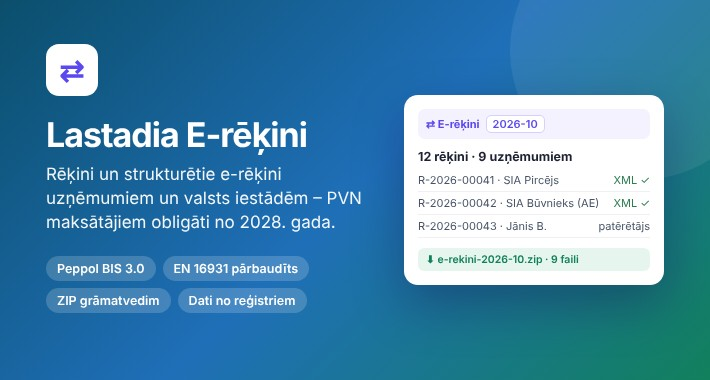
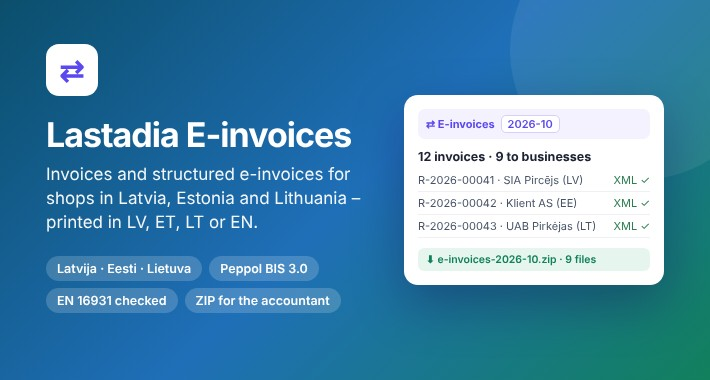
Lastadia E-invoices for Latvia, Estonia and Lithuania: page, guide, listing text, screenshots
Claude-Session: https://claude.ai/code/session_01BDzH6KM6mpwT9xKqHFzTSu

diff --git a/lv-einvoice.html b/lv-einvoice.html
@@ -1,6 +1,6 @@
 <!doctype html>
 <html lang="lv"><head><meta charset="utf-8"><meta name="viewport" content="width=device-width, initial-scale=1">
-<title>Lastadia E-rēķini – strukturētie e-rēķini - OpenCart extension</title><meta name="description" content="Rēķini un strukturētie e-rēķini (Peppol BIS Billing 3.0 / EN 16931) Latvijas OpenCart veikaliem, pārbaudīti ar oficiālajiem CEN un Peppol noteikumiem."><style>:root{--bg:#f6f7f9;--card:#fff;--ink:#17202a;--mut:#5b6773;--line:#e2e7ec;--acc:#12805c;--acc2:#1f6fb8;--chip:#eef2f5}
+<title>Lastadia E-invoices – Latvia, Estonia, Lithuania - OpenCart extension</title><meta name="description" content="Rēķini un strukturētie e-rēķini (Peppol BIS Billing 3.0 / EN 16931) OpenCart veikaliem Latvijā, Igaunijā un Lietuvā – izdruka latviešu, igauņu, lietuviešu vai angļu valodā."><style>:root{--bg:#f6f7f9;--card:#fff;--ink:#17202a;--mut:#5b6773;--line:#e2e7ec;--acc:#12805c;--acc2:#1f6fb8;--chip:#eef2f5}
 @media (prefers-color-scheme:dark){:root{--bg:#0f1418;--card:#171e24;--ink:#e8edf1;--mut:#9aa7b2;--line:#26313a;--acc:#2fb487;--acc2:#5aa5e6;--chip:#1f2830}}
 *{box-sizing:border-box}body{margin:0;background:var(--bg);color:var(--ink);font:16px/1.55 -apple-system,BlinkMacSystemFont,"Segoe UI",Roboto,Helvetica,Arial,sans-serif}
 a{color:var(--acc2)}.wrap{max-width:1000px;margin:0 auto;padding:0 16px}
@@ -19,12 +19,16 @@ ol.s{margin:0;padding-left:22px}ol.s li{margin:6px 0}
 footer{margin:44px 0 0;padding:22px 0 40px;border-top:1px solid var(--line);color:var(--mut);font-size:14px}</style></head>
 <body><div class="wrap">
 <nav><a href="./">&larr; Visi paplašinājumi</a></nav>
-<header><h1>Lastadia E-rēķini</h1><p>Rēķini un strukturētie e-rēķini (Peppol BIS Billing 3.0 / EN 16931) Latvijas OpenCart veikaliem – arī tad, ja grāmatvedību kārto grāmatvedis savā programmā. Valsts un pašvaldību iestādēm obligāti jau tagad, PVN maksātājiem savā starpā – no 2028. gada 1. janvāra.</p>
+<header><h1>Lastadia E-invoices</h1><p>E-rēķini (Latvija), e-arved (Eesti), e. sąskaitos (Lietuva): rēķini un strukturētie e-rēķini (Peppol BIS Billing 3.0 / EN 16931) OpenCart veikaliem – arī tad, ja grāmatvedību kārto grāmatvedis savā programmā.</p>
 <div class="buy"><span class="price">$59</span><a class="btn main" href="https://www.opencart.com/index.php?route=marketplace/extension/info&amp;extension_id=50285">Pirkt OpenCart Marketplace</a><a class="btn" href="docs/LV_EINVOICE_GUIDE.md">Lietošanas pamācība</a></div>
-<div class="chips"><span>OpenCart 3 + 4 vienā pirkumā</span><span>Netiek mainīti OpenCart faili</span><span>12 mēnešu atjauninājumi un atbalsts</span></div></header>
+<div class="chips"><span>Latvija · Eesti · Lietuva</span><span>OpenCart 3 + 4 vienā pirkumā</span><span>Netiek mainīti OpenCart faili</span><span>12 mēnešu atjauninājumi un atbalsts</span></div></header>
 
-<h2>Ko tas dara</h2><div class="card"><ul class="f"><li>Rēķini un kredītrēķini ar nepārtrauktu numerāciju, izdruka un PDF, nosūtīšana pircējam pa e-pastu</li><li>Rēķins pasūtījumam ar pircēja uzņēmuma rekvizītiem; pēc izvēles automātiski katram apmaksātam pasūtījumam</li><li>Rēķins bez pasūtījuma (pakalpojumi, B2B) ar rindām, mērvienībām un PVN likmēm; PVN 0 % iemesls: apgrieztā maksāšana, ES preces, eksports, atbrīvots</li><li>Katram rēķinam uzņēmumam – XML fails Peppol BIS Billing 3.0 / EN 16931 (UBL 2.1), pārbaudīts ar oficiālajiem CEN un Peppol noteikumiem</li><li>E-rēķini par periodu vienā ZIP failā ar sarakstu – grāmatvedim vai e-rēķinu pakalpojumam</li><li>Uzņēmuma dati no Uzņēmumu reģistra, VID PVN maksātāju reģistra un VIES</li><li>Izrakstītu rēķinu nevar mainīt vai dzēst – kļūdu labo ar kredītrēķinu; izmaiņu vēsture un piekļuve katram administratoram</li><li>Failu nosūtiet caur valsts e-adresi vai e-rēķinu pakalpojumu – modulis pats nesūta</li><li>Vajag arī grāmatvedību? E-rēķini jau ir iekļauti <a href="lv-books.html">Lastadia Grāmatvedība</a> un <a href="lv-journal.html">Lastadia Žurnāls</a></li></ul></div>
+<h2>Kāpēc tagad</h2><div class="card"><ul class="f"><li><b>Latvija:</b> valsts un pašvaldību iestādēm obligāti jau tagad; PVN maksātājiem savā starpā – no 2028. gada 1. janvāra</li><li><b>Igaunija:</b> valsts iestādēm – kopš 2019. gada; kopš 2025. gada 1. jūlija e-rēķinu saņēmējs var tos pieprasīt no piegādātāja</li><li><b>Lietuva:</b> valsts iestādēm – caur eSąskaita; PVN maksātājiem savā starpā plānoti no 2028. gada</li></ul></div>
 
-<h2>Ekrānuzņēmumi</h2><div class="shots"><figure><img src="assets/lv_einvoice_1.jpg" alt="Pārskats: e-rēķini šomēnes un ZIP par periodu" loading="lazy"><figcaption>Pārskats: e-rēķini šomēnes un ZIP par periodu</figcaption></figure><figure><img src="assets/lv_einvoice_2.jpg" alt="Rēķini ar e-rēķina XML pogu" loading="lazy"><figcaption>Rēķini ar e-rēķina XML pogu</figcaption></figure><figure><img src="assets/lv_einvoice_3.jpg" alt="Jauns rēķins ar PVN 0 % iemeslu" loading="lazy"><figcaption>Jauns rēķins ar PVN 0 % iemeslu</figcaption></figure><figure><img src="assets/lv_einvoice_4.jpg" alt="Iestatījumi" loading="lazy"><figcaption>Iestatījumi</figcaption></figure><figure><img src="assets/lv_einvoice_5.jpg" alt="E-rēķina XML: 0 kļūdu (CEN EN 16931, Peppol)" loading="lazy"><figcaption>E-rēķina XML: 0 kļūdu (CEN EN 16931, Peppol)</figcaption></figure></div>
+<h2>Ko tas dara</h2><div class="card"><ul class="f"><li>Rēķini un kredītrēķini ar nepārtrauktu numerāciju, izdruka un PDF, nosūtīšana pircējam pa e-pastu</li><li>Izdruka latviešu, igauņu, lietuviešu vai angļu valodā ar katras valsts rekvizītiem (Rēķins / Arve / PVM sąskaita faktūra)</li><li>Rēķins pasūtījumam – automātiski katram apmaksātam pasūtījumam vai ar pogu; rēķins bez pasūtījuma (pakalpojumi, B2B)</li><li>PVN likmes pēc valsts; PVN 0 % iemesls (apgrieztā maksāšana, ES piegāde, eksports, atbrīvots) tiek drukāts uz rēķina</li><li>Katram rēķinam uzņēmumam – XML fails Peppol BIS Billing 3.0 / EN 16931; e-rēķina adrese – uzņēmuma kods (LV 0218, EE 0191, LT 0200), pārbaudīts ar oficiālajiem CEN un Peppol noteikumiem</li><li>E-rēķini par periodu vienā ZIP failā ar sarakstu – grāmatvedim vai e-rēķinu operatoram</li><li>Saskarne latviešu, angļu, krievu, igauņu vai lietuviešu valodā</li><li>Failu nosūtiet caur e-rēķinu operatoru vai valsts pakalpojumu – modulis pats nesūta</li><li>Vajag arī grāmatvedību Latvijā? E-rēķini jau ir iekļauti <a href="lv-books.html">Lastadia Grāmatvedība</a> un <a href="lv-journal.html">Lastadia Žurnāls</a></li></ul></div>
+
+<h2>English · Eesti · Lietuvių</h2><div class="card"><p style="margin-top:0">Invoices and Peppol / EN 16931 e-invoices for OpenCart shops in Latvia, Estonia and Lithuania, printed in Latvian, Estonian, Lithuanian or English, checked against the official CEN and Peppol rules.</p><p>Arved ja e-arved (Peppol / EN 16931) OpenCarti poodidele Eestis, Lätis ja Leedus – eesti, läti, leedu või inglise keeles.</p><p style="margin-bottom:0">Sąskaitos faktūros ir e. sąskaitos (Peppol / EN 16931) OpenCart parduotuvėms Lietuvoje, Latvijoje ir Estijoje – lietuvių, latvių, estų arba anglų kalba.</p></div>
+
+<h2>Ekrānuzņēmumi</h2><div class="shots"><figure><img src="assets/lv_einvoice_1.jpg" alt="Igaunijas veikals: pārskats igauņu valodā" loading="lazy"><figcaption>Igaunijas veikals: pārskats igauņu valodā</figcaption></figure><figure><img src="assets/lv_einvoice_2.jpg" alt="Lietuvas uzņēmums: valsts, kods un rēķinu valoda" loading="lazy"><figcaption>Lietuvas uzņēmums: valsts, kods un rēķinu valoda</figcaption></figure><figure><img src="assets/lv_einvoice_3.jpg" alt="Rēķini ar e-rēķina XML pogu" loading="lazy"><figcaption>Rēķini ar e-rēķina XML pogu</figcaption></figure><figure><img src="assets/lv_einvoice_4.jpg" alt="Rēķins igauņu valodā (Arve)" loading="lazy"><figcaption>Rēķins igauņu valodā (Arve)</figcaption></figure></div>
 <footer><p>Jautājumi: <a href="https://github.com/val218/opencart-extensions/issues">atveriet issue</a>. OpenCart ir OpenCart Limited preču zīme; šie paplašinājumi ir neatkarīgi.</p></footer>
 </div></body></html>

diff --git a/index.html b/index.html
@@ -119,8 +119,8 @@ footer{margin:48px 0 0;padding:24px 0 40px;border-top:1px solid var(--line);colo
 <h3><a href="lv-books.html" style="color:inherit;text-decoration:none">Lastadia Grāmatvedība – SIA un mikrosabiedrībām</a></h3><p>SIA un mikrosabiedrībām – PVN maksātājiem un PVN nemaksātājiem: divkāršais ieraksts, PVN deklarācija un OSS, algas, krājumi, dividendes, UIN un gada pārskats (XML VID EDS).</p><div class="price">$129</div>
 <div class="links"><a class="btn main" href="https://www.opencart.com/index.php?route=marketplace/extension/info&amp;extension_id=50284">OpenCart Marketplace</a><a class="btn" href="lv-books.html">Screenshots</a><a class="btn" href="docs/LV_BOOKS_GUIDE.md">Guide</a></div></div></div>
 
-<div class="card"><img src="assets/lv_einvoice_banner.png" alt="Lastadia E-rēķini banner" loading="lazy"><div class="b">
-<h3><a href="lv-einvoice.html" style="color:inherit;text-decoration:none">Lastadia E-rēķini</a></h3><p>Rēķini un strukturētie e-rēķini (Peppol BIS Billing 3.0 / EN 16931) uzņēmumiem un valsts iestādēm, pārbaudīti ar oficiālajiem CEN un Peppol noteikumiem; ZIP par periodu grāmatvedim.</p><div class="price">$59</div>
+<div class="card"><img src="assets/lv_einvoice_banner.png" alt="Lastadia E-invoices banner" loading="lazy"><div class="b">
+<h3><a href="lv-einvoice.html" style="color:inherit;text-decoration:none">Lastadia E-invoices</a></h3><p>E-rēķini, e-arved, e. sąskaitos: rēķini un strukturētie e-rēķini (Peppol BIS Billing 3.0 / EN 16931) veikaliem Latvijā, Igaunijā un Lietuvā; izdruka LV, ET, LT vai EN valodā.</p><div class="price">$59</div>
 <div class="links"><a class="btn main" href="https://www.opencart.com/index.php?route=marketplace/extension/info&amp;extension_id=50285">OpenCart Marketplace</a><a class="btn" href="lv-einvoice.html">Screenshots</a><a class="btn" href="docs/LV_EINVOICE_GUIDE.md">Guide</a></div></div></div>
 </div>
 

diff --git a/docs/LV_EINVOICE_GUIDE.md b/docs/LV_EINVOICE_GUIDE.md
@@ -1,31 +1,51 @@
-# Lastadia E-rēķini - lietošanas instrukcija (v1.0.1)
+# Lastadia E-invoices (E-rēķini, E-arved, E-sąskaitos) - lietošanas instrukcija (v1.1.0)
 
-Strukturētie e-rēķini Latvijas OpenCart veikalam: rēķini un kredītrēķini ar nepārtrauktu numerāciju un e-rēķina XML fails (Peppol BIS Billing 3.0 / EN 16931, UBL 2.1) katram rēķinam uzņēmumam. Bez grāmatvedības - grāmatvedību var kārtot jūsu grāmatvedis savā programmā (Jumis, Horizon u. c.).
+Strukturētie e-rēķini OpenCart veikalam Latvijā, Igaunijā vai Lietuvā: rēķini un kredītrēķini ar nepārtrauktu numerāciju un e-rēķina XML fails (Peppol BIS Billing 3.0 / EN 16931, UBL 2.1) katram rēķinam uzņēmumam. Bez grāmatvedības - grāmatvedību var kārtot jūsu grāmatvedis savā programmā.
+
+*English summary below. Eestikeelne ja lietuviškas santrauka - žemiau.*
 
 ## Kāpēc
-- Valsts un pašvaldību iestādēm e-rēķini ir obligāti jau tagad.
-- PVN maksātājiem savā starpā Latvijā - no 2028. gada 1. janvāra; brīvprātīgi - jau tagad.
+- **Latvija:** valsts un pašvaldību iestādēm e-rēķini ir obligāti jau tagad; PVN maksātājiem savā starpā - no 2028. gada 1. janvāra.
+- **Igaunija:** valsts iestādēm - kopš 2019. gada; kopš 2025. gada 1. jūlija uzņēmums, kas reģistrēts kā e-rēķinu saņēmējs, var tos pieprasīt no piegādātāja. Vispārēja prasība no 2027. gada ir ierosināta, bet vēl nav pieņemta.
+- **Lietuva:** valsts iestādēm - caur eSąskaita (kopš 2017. gada); PVN maksātājiem savā starpā plānoti no 2028. gada.
 - Patērētājiem e-rēķins nav vajadzīgs.
 
 ## Uzstādīšana
-1. OpenCart 3: Extensions → Installer → `lv_einvoice_oc3.ocmod.zip`; Extensions → Modules → "Lastadia E-rēķini" → Install. OpenCart 4: Extensions → Installer → `lv_einvoice.ocmod.zip` → Install, tad Extensions → Modules → Install.
-2. Izvēlne: Sales → E-rēķini.
-3. Cilnē **Uzņēmums** ievadiet reģistrācijas numuru - nosaukums, adrese un PVN statuss tiek atrasti reģistros. E-rēķinam vajag reģistrācijas numuru (11 cipari) vai PVN numuru.
-4. Iestatījumos - konts (IBAN), rēķinu sērijas, apmaksas termiņš; vajadzības gadījumā - automātiski rēķini katram apmaksātam pasūtījumam.
+1. OpenCart 3: Extensions → Installer → `lv_einvoice_oc3.ocmod.zip`; Extensions → Modules → "Lastadia E-invoices" → Install. OpenCart 4: Extensions → Installer → `lv_einvoice.ocmod.zip` → Install, tad Extensions → Modules → Install.
+2. Izvēlne: Sales → Lastadia E-invoices.
+3. Cilnē **Uzņēmums** izvēlieties valsti (Latvija, Igaunija, Lietuva) un aizpildiet uzņēmuma datus:
+   - Latvija: ievadiet reģistrācijas numuru - nosaukums, adrese un PVN statuss tiek atrasti Uzņēmumu reģistrā un VID datos.
+   - Igaunija un Lietuva: PVN maksātāji var atrast datus pēc PVN numura (ES VIES); citādi ievadiet paši.
+   - Reģistrācijas numurs ir e-rēķina adrese: Latvijā 11 cipari (Peppol 0218), Igaunijā 8 (registrikood, 0191), Lietuvā 9 (įmonės kodas, 0200).
+4. **Rēķinu valoda:** pēc noklusējuma - uzņēmuma valsts valoda (latviešu, igauņu, lietuviešu); var izvēlēties arī angļu. Jau izrakstītie rēķini paliek savā valodā.
+5. Iestatījumos - konts (IBAN), rēķinu sērijas, apmaksas termiņš; vajadzības gadījumā - automātiski rēķini katram apmaksātam pasūtījumam. Moduļa valoda: latviešu, angļu, krievu, igauņu vai lietuviešu.
 
 ## Rēķini
-- **+ Rēķins** - pircējs (nosaukums, reģistrācijas Nr., PVN Nr., valsts, atsauce), rindas ar daudzumu, mērvienību, cenu un PVN likmi. PVN maksātājam, ja likme 0 %, - iemesls: apgrieztā maksāšana, preces citas ES valsts PVN maksātājam, eksports, atbrīvots.
+- **+ Rēķins** - pircējs (nosaukums, reģistrācijas Nr., PVN Nr., valsts, atsauce), rindas ar daudzumu, mērvienību, cenu un PVN likmi (pēc noklusējuma - valsts pamatlikme: LV 21 %, EE 24 %, LT 21 %). PVN maksātājam, ja likme 0 %, - iemesls: apgrieztā maksāšana, preces citas ES valsts PVN maksātājam, eksports, atbrīvots; iemesls tiek drukāts uz rēķina.
 - **+ Rēķins pasūtījumam** - no pasūtījuma; uzņēmuma rekvizītus (reģ. Nr., PVN Nr.) var ievadīt izrakstot.
-- **Automātiski rēķini** - ja ieslēgti, katram pasūtījumam, kas apmaksāts pēc ieslēgšanas dienas (vecākiem pasūtījumiem rēķini atpakaļejoši netiek izrakstīti).
-- Izrakstītu rēķinu nevar mainīt vai dzēst - kļūdu labo ar kredītrēķinu.
+- **Automātiski rēķini** - ja ieslēgti, katram pasūtījumam, kas apmaksāts pēc ieslēgšanas dienas.
+- Izdruka: Latvijā "Rēķins", Igaunijā "Arve", Lietuvā "Sąskaita faktūra" (PVN maksātājam - "PVM sąskaita faktūra").
+- Izrakstītu rēķinu nevar mainīt vai dzēst - kļūdu labo ar kredītrēķinu. Kredītrēķinā katrai PVN likmei ir sava rinda.
 
 ## E-rēķini
 - Pie rēķina poga **XML** - e-rēķina fails. Ja e-rēķinu nevar sagatavot (piem. pircējam nav reģistrācijas vai PVN numura), modulis parāda iemeslu.
-- Pārskatā **E-rēķini par periodu** - visi perioda e-rēķini vienā ZIP failā ar sarakstu (rēķiniem bez e-rēķina - iemesls).
-- Failu nosūtiet pircējam caur valsts e-adresi vai e-rēķinu pakalpojuma sniedzēju; modulis pats nesūta.
+- Pārskatā **E-rēķini par periodu** - visi perioda e-rēķini vienā ZIP failā ar sarakstu.
+- Failu nosūtiet caur e-rēķinu operatoru vai valsts pakalpojumu (Latvijā - e-adrese, Igaunijā - e-arve operators, Lietuvā - eSąskaita); modulis pats nesūta.
 - Faili pārbaudīti ar oficiālajiem CEN EN 16931 un Peppol noteikumiem (bez kļūdām).
+- Nav iekļauts: Lietuvas i.SAF un Igaunijas KMD INF pārskati - tos sagatavo grāmatvedības programma.
 
 ## Drošība
 - Slēgtie periodi, piekļuve katram administratoram, izmaiņu vēsture, pilna datu kopija (Iestatījumi).
 
 Rīks palīdz izrakstīt rēķinus, bet nav juridisks vai nodokļu padoms. Par rēķinu saturu atbild izrakstītājs.
+
+---
+
+## English
+Invoices and credit notes with continuous numbering, from orders or typed in, for shops in **Latvia, Estonia and Lithuania**. Invoices are printed in Latvian, Estonian, Lithuanian or English. Every invoice to a business gets a Peppol BIS Billing 3.0 / EN 16931 XML file with the seller's and buyer's company code as the e-invoice address (Latvia 0218, Estonia 0191, Lithuania 0200, else the VAT number), checked against the official CEN and Peppol rules. Choose the country and language on the **Company** tab. Interface in Latvian, English, Russian, Estonian or Lithuanian. Not included: Lithuanian i.SAF and Estonian KMD INF reports.
+
+## Eesti
+Arved ja kreeditarved järjestikuse numeratsiooniga, tellimustest või käsitsi, poodidele Lätis, Eestis ja Leedus. Arve trükitakse eesti, läti, leedu või inglise keeles. Igale ettevõttele väljastatud arvele koostatakse Peppol BIS Billing 3.0 / EN 16931 XML-fail, e-arve aadressiks on registrikood (0191). Valige riik ja keel vahekaardil **Ettevõte**. Saatke fail e-arve operaatori kaudu; moodul ise ei saada.
+
+## Lietuvių
+Sąskaitos faktūros ir kreditinės sąskaitos su nenutrūkstama numeracija, iš užsakymų arba įvestos rankiniu būdu, parduotuvėms Latvijoje, Estijoje ir Lietuvoje. Sąskaita spausdinama lietuvių, latvių, estų arba anglų kalba. Kiekvienai įmonei išrašytai sąskaitai parengiamas Peppol BIS Billing 3.0 / EN 16931 XML failas, e. sąskaitos adresas - įmonės kodas (0200). Šalį ir kalbą pasirinkite skirtuke **Įmonė**. Siųskite failą per eSąskaita arba e. sąskaitų operatorių; modulis pats nesiunčia.

diff --git a/README.md b/README.md
@@ -14,7 +14,7 @@ Seven extensions for OpenCart 3.0.x and 4.0.x / 4.1.x, sold on the OpenCart Mark
 | [UK Accounting Export](https://val218.github.io/opencart-extensions/uk-export.html) | Sales ledger, HMRC expense categories and MTD quarterly figures | [Guide](docs/UK_EXPORT_GUIDE.md) |
 | [Lastadia Žurnāls](https://val218.github.io/opencart-extensions/lv-journal.html) | Latvian income and expense journal for sole traders (IK) and self-employed, from paid orders, with e-invoices | [Guide](docs/LV_JOURNAL_GUIDE.md) |
 | [Lastadia Grāmatvedība](https://val218.github.io/opencart-extensions/lv-books.html) | Double-entry bookkeeping for Latvian SIA and micro companies: VAT, payroll, corporate income tax, annual report | [Guide](docs/LV_BOOKS_GUIDE.md) |
-| [Lastadia E-rēķini](https://val218.github.io/opencart-extensions/lv-einvoice.html) | Invoices and Peppol / EN 16931 e-invoices for Latvian shops | [Guide](docs/LV_EINVOICE_GUIDE.md) |
+| [Lastadia E-invoices](https://val218.github.io/opencart-extensions/lv-einvoice.html) | Invoices and Peppol / EN 16931 e-invoices for shops in Latvia, Estonia and Lithuania | [Guide](docs/LV_EINVOICE_GUIDE.md) |
 
 ## Support
 

diff --git a/docs/LV_JOURNAL_GUIDE.md b/docs/LV_JOURNAL_GUIDE.md
@@ -1,4 +1,4 @@
-# Lastadia Žurnāls (IK un pašnodarbinātajiem) - lietošanas instrukcija (v1.6.3)
+# Lastadia Žurnāls (IK un pašnodarbinātajiem) - lietošanas instrukcija (v1.6.4)
 
 Ieņēmumu un izdevumu uzskaites žurnāls vienkāršā ieraksta sistēmā, aizpildīts automātiski no apmaksātiem pasūtījumiem. Formāts atbilst MK noteikumiem Nr. 322 par grāmatvedību vienkāršā ieraksta sistēmā (likumi.lv/ta/id/332883): **1. pielikums** (IIN maksātāji, 24 ailes), **2. pielikums** (MUN maksātāji, 15 ailes) un **3. pielikums** (izdevumu precizēšanas reģistrs).
 

diff --git a/docs/LV_BOOKS_GUIDE.md b/docs/LV_BOOKS_GUIDE.md
@@ -1,4 +1,4 @@
-# Lastadia Grāmatvedība (SIA un mikrosabiedrībām) - lietošanas instrukcija (v1.5.3)
+# Lastadia Grāmatvedība (SIA un mikrosabiedrībām) - lietošanas instrukcija (v1.5.4)
 
 Divkāršā ieraksta grāmatvedība Latvijas SIA tieši OpenCart administrācijā. Uztur jūsu SIA grāmatas gatavas grāmatvedim - **neaizstāj grāmatvedi**. Mazām SIA gada pārskatu parasti paraksta grāmatvedis vai valde pēc grāmatveža pārbaudes.
 
